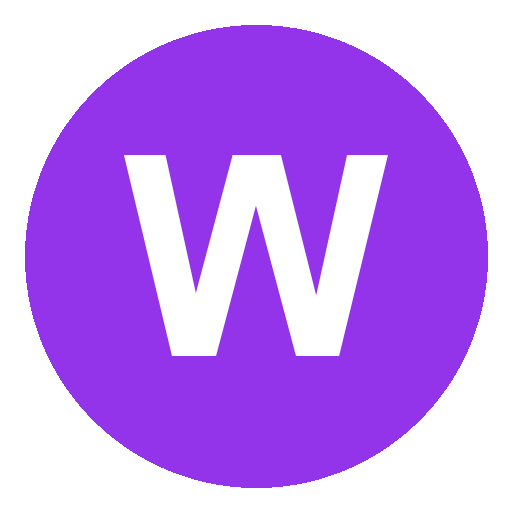
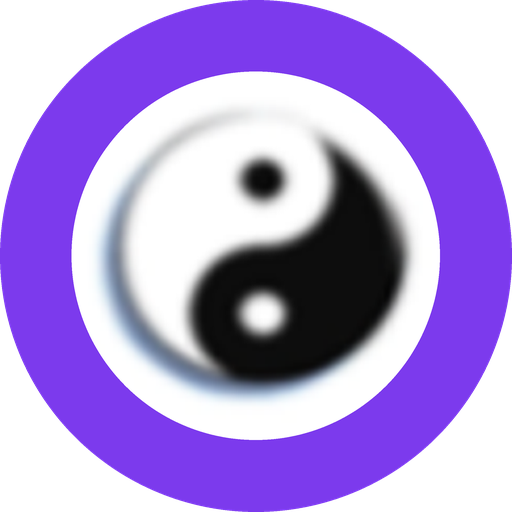
Les icones portent le symbole du club, plus le « W » d'attente
L'onglet du navigateur, l'ecran d'accueil d'un telephone et le magasin
d'applications affichaient un « W » blanc sur pastille violette.

A 16 pixels, le logo complet — sept yin-yang en spirale — devient une tache
grise. Seul le symbole central tient a cette taille, et il porte le meme sens.
Il est pose sur le violet du club, confirme comme couleur d'identite : le
yin-yang garde son contraste interne, noir contre blanc, et le violet identifie
le club dans une rangee d'onglets.

  favicon.ico   16, 32 et 48 px dans un seul fichier
  icon-192      ecran d'accueil Android et reference du manifeste
  icon-512      splash screen et magasins
  apple-icon    180 px, sans transparence : iOS remplit le fond de noir sinon
  src/app/icon  la convention de Next, qui PRIME sur favicon.ico — la laisser
                au « W » aurait annule tout le reste

Le manifeste, lu quand on ajoute le site a son ecran d'accueil, etait ecrit sans
accents : « methode Wa-Jutsu a Marcinelle », « non competitif, self-defense ».

diff --git a/src/app/manifest.ts b/src/app/manifest.ts
@@ -2,12 +2,12 @@ import type { MetadataRoute } from 'next'
 
 export default function manifest(): MetadataRoute.Manifest {
   return {
-    name: 'Wa-Jutsu Charleroi - Club de Ju-Jutsu Traditionnel',
+    name: 'Wa-Jutsu Charleroi — Club de ju-jutsu traditionnel',
     short_name: 'Wa-Jutsu',
-    description: 'Club de Ju-Jutsu Traditionnel methode Wa-Jutsu a Marcinelle (Charleroi). Art martial non competitif, self-defense efficace.',
+    description: 'Club de ju-jutsu traditionnel, méthode Wa-Jutsu, à Marcinelle (Charleroi). Art martial non compétitif, self-défense efficace.',
     start_url: '/',
     display: 'standalone',
-    background_color: '#0A0A0A',
+    background_color: '#0C0B0F',
     theme_color: '#9333EA',
     icons: [
       {
